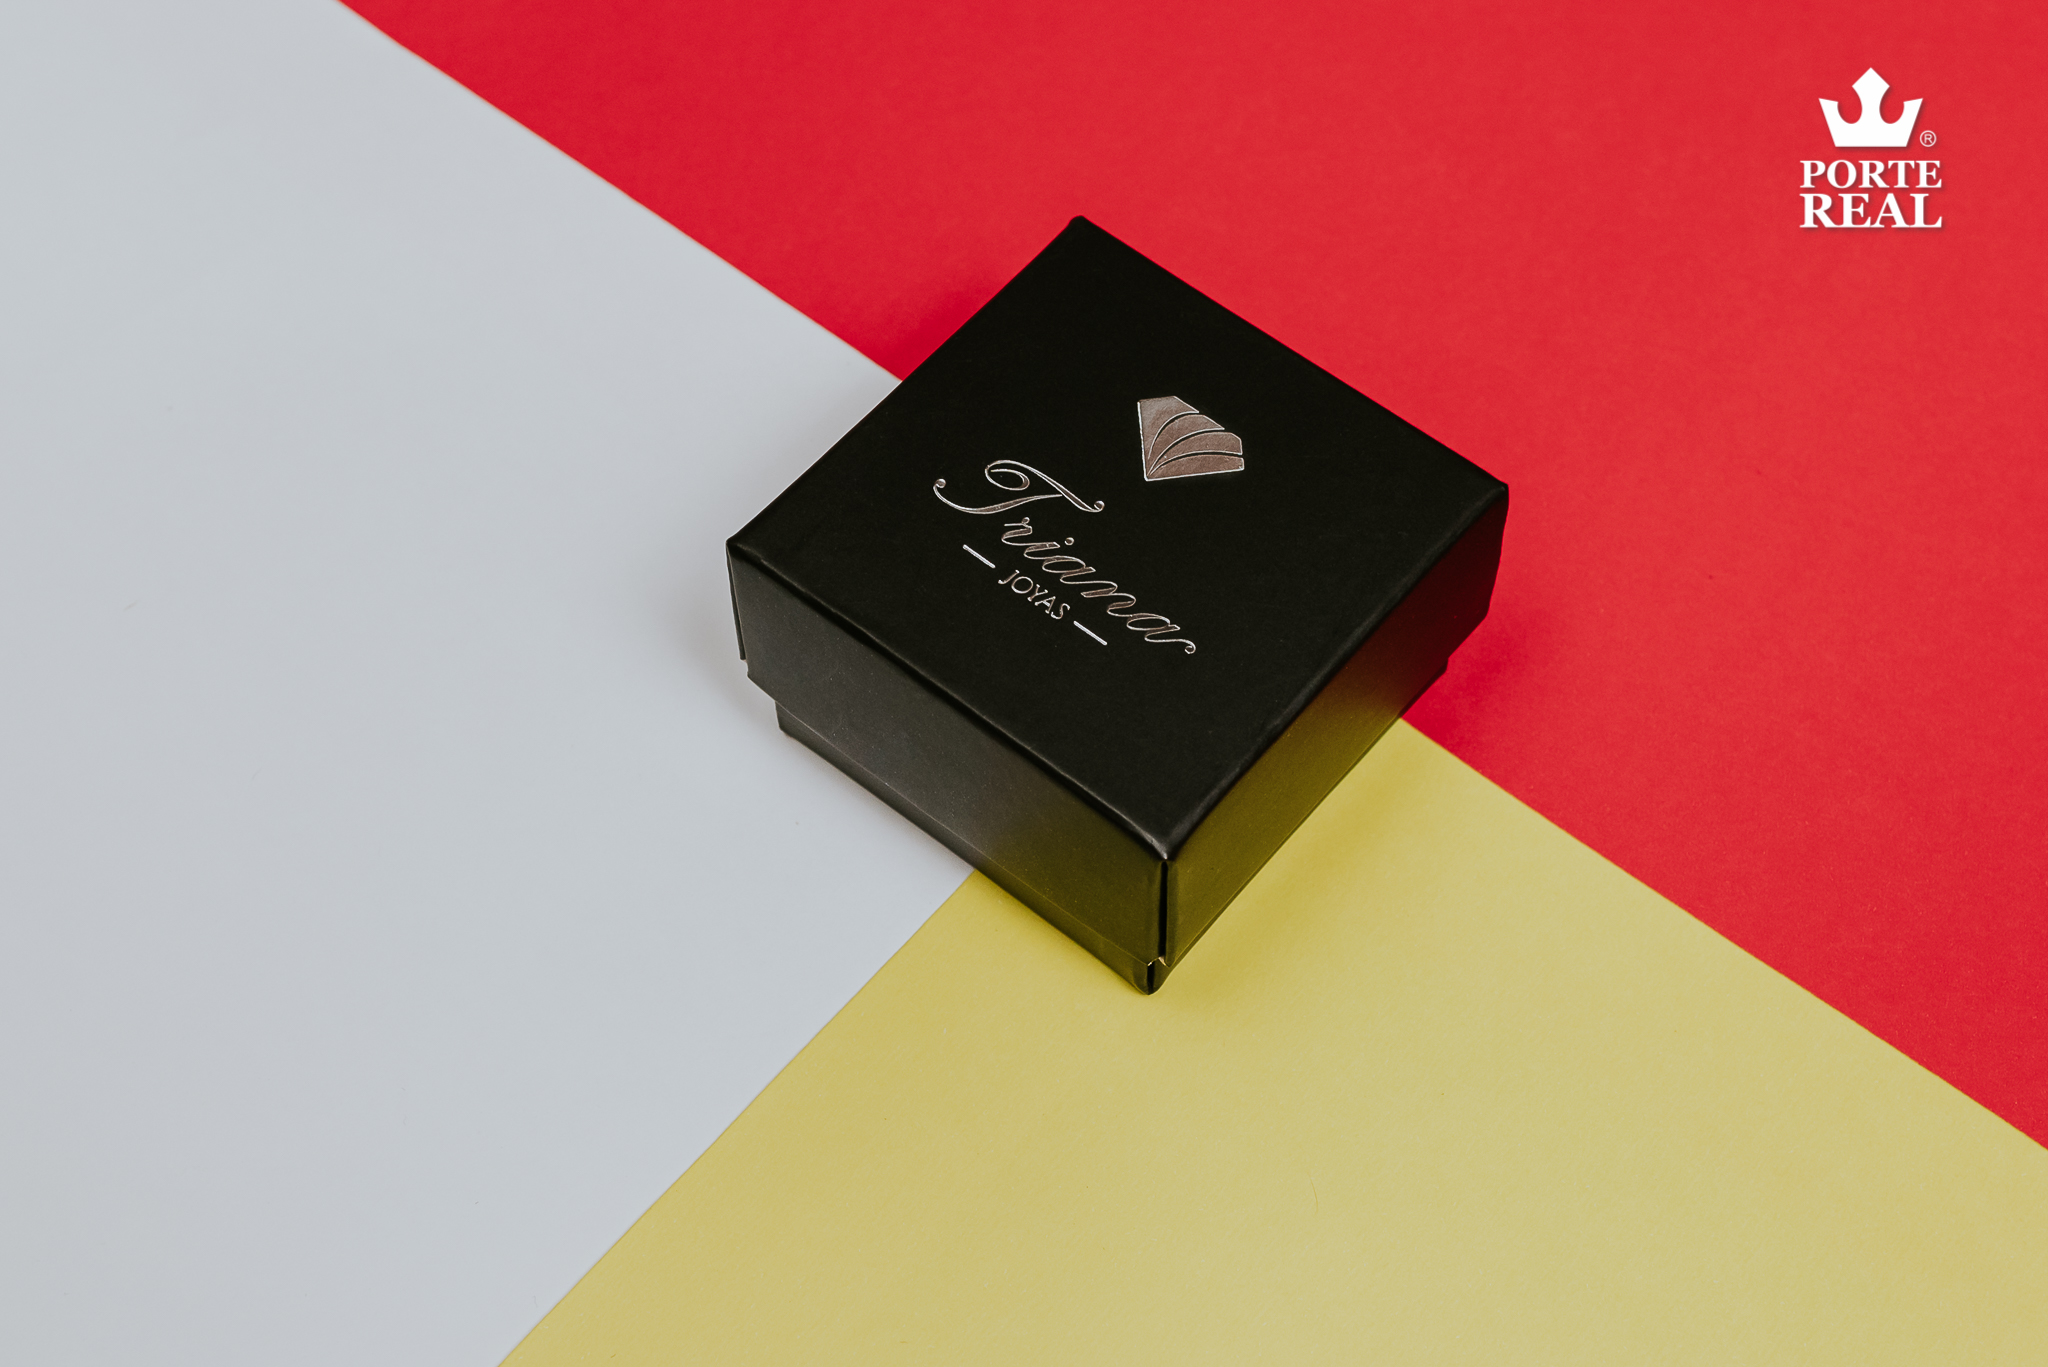
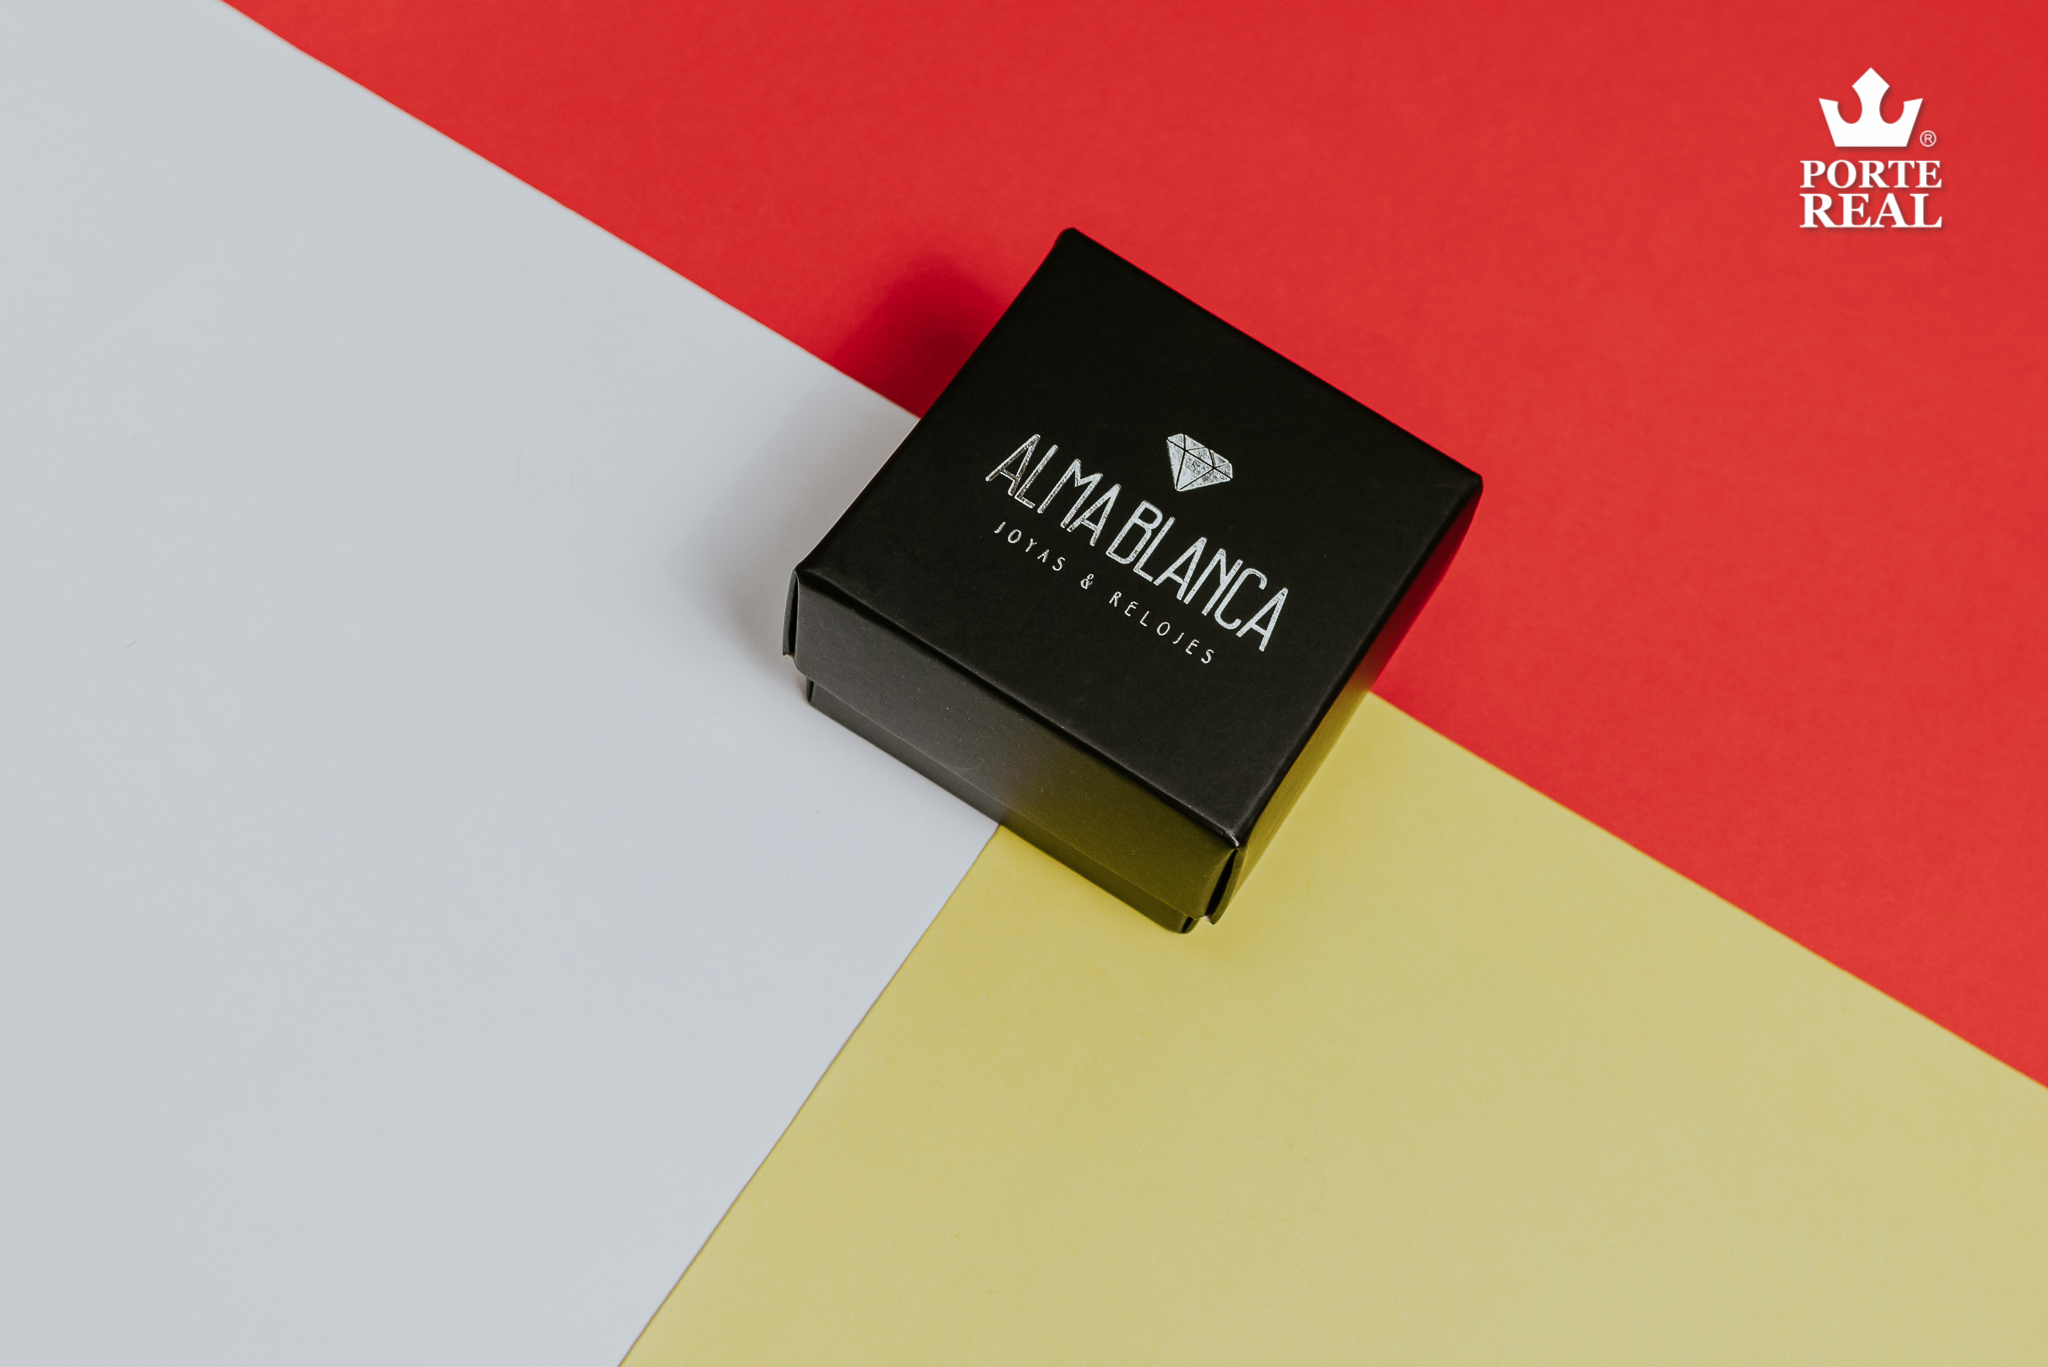
Changing images on AD

diff --git a/estuchesP.html b/estuchesP.html
@@ -147,7 +147,7 @@
               <img src="imagenes/epersonalizados/adseis.jpg" alt="estuche personalizado color blanco de Cleopatra Joyas">
             </div>
             <div class="carousel-item">
-              <img src="imagenes/epersonalizados/addos.jpg" alt="...">
+              <img src="imagenes/epersonalizados/addos.jpg" alt="estuche personalizado color negro de Alma Blanca Joyas">
             </div>
           </div>
           <button class="carousel-control-prev" type="button" data-bs-target="#carouselExampleControls1"
